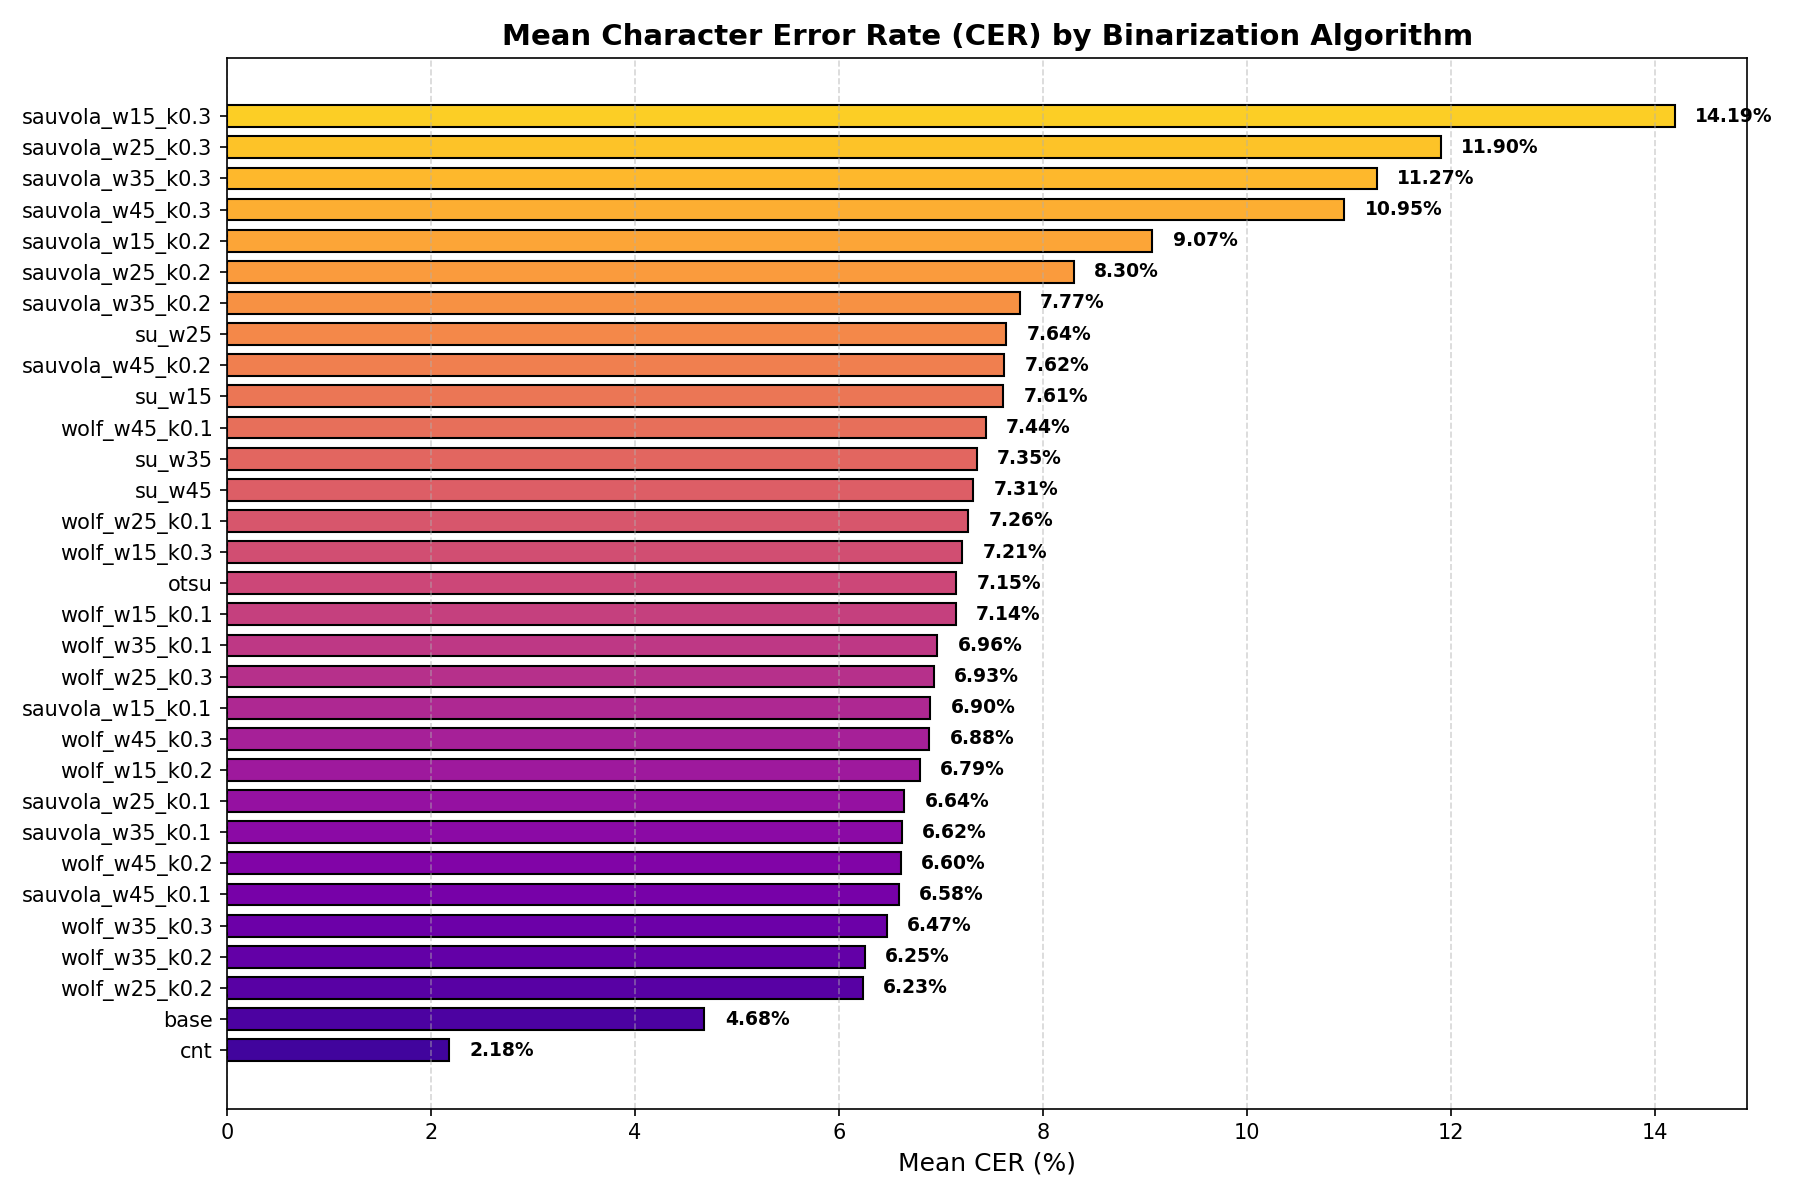
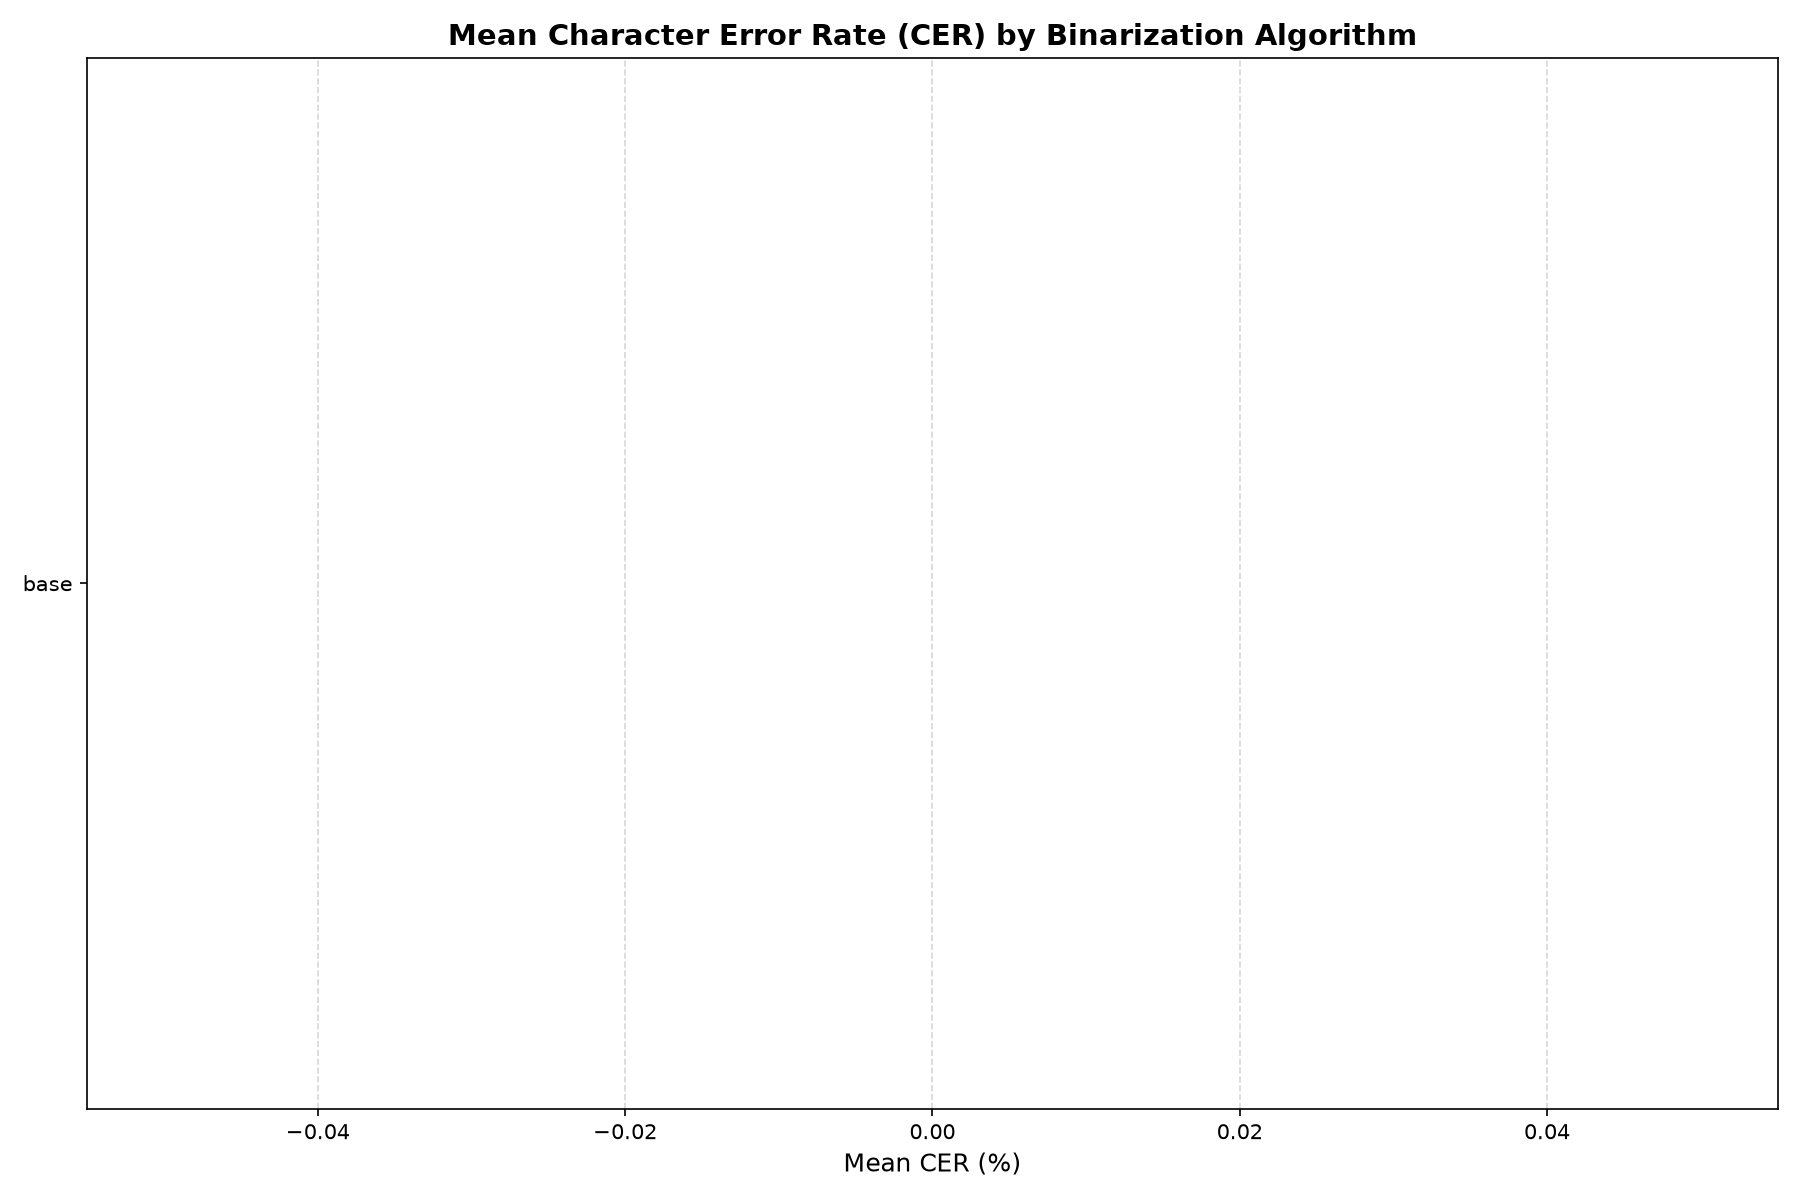
Fix Matplotlib get_cmap AttributeError in generate_binarization_graphs.py

diff --git a/scripts/generate_binarization_graphs.py b/scripts/generate_binarization_graphs.py
@@ -258,7 +258,7 @@ def plot_compound_chart(
     width = 0.8 / n_algos  # width of each individual bar
 
     # Use a colormap to distinguish all algorithms
-    cmap = plt.cm.get_cmap("gist_rainbow")
+    cmap = plt.get_cmap("gist_rainbow")
 
     file_to_idx = {f: idx for idx, f in enumerate(selected_files)}
 